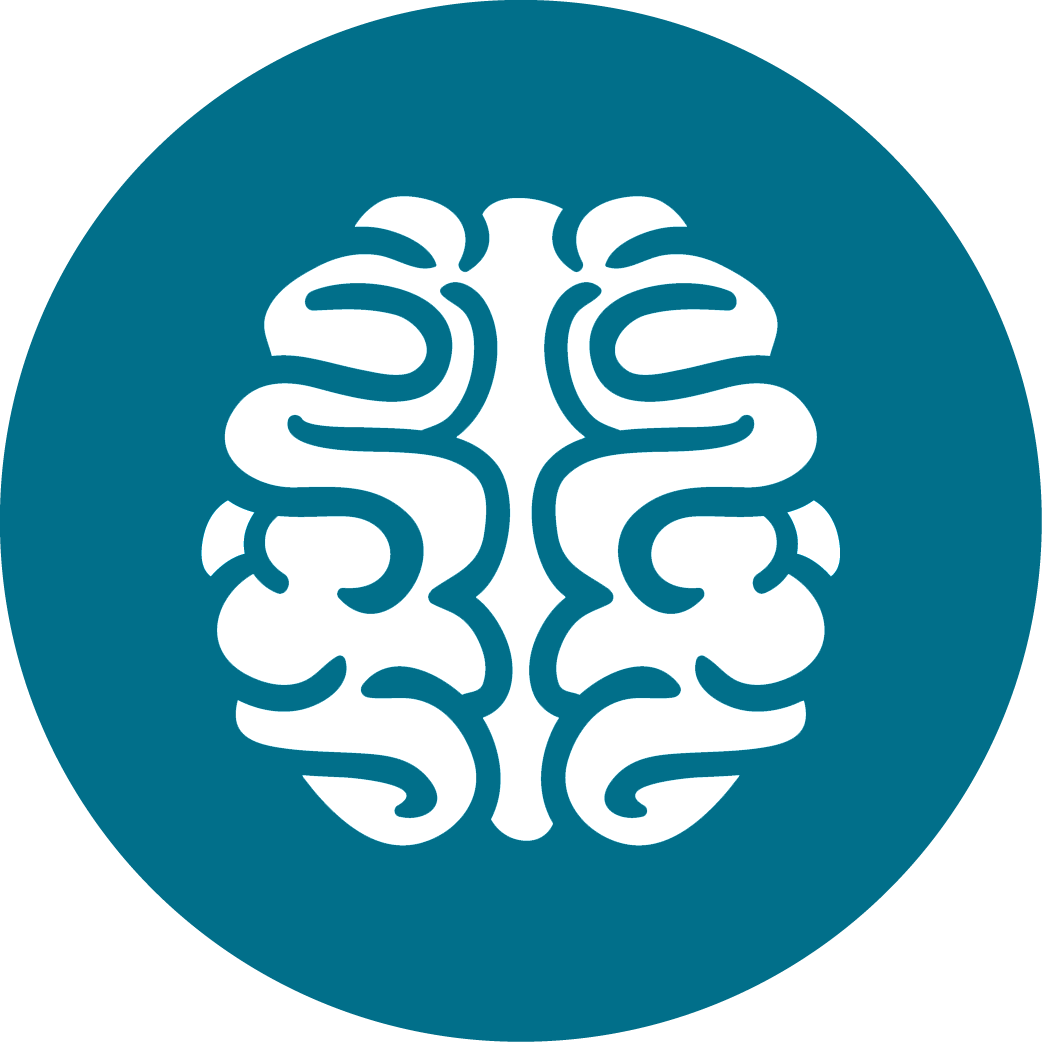
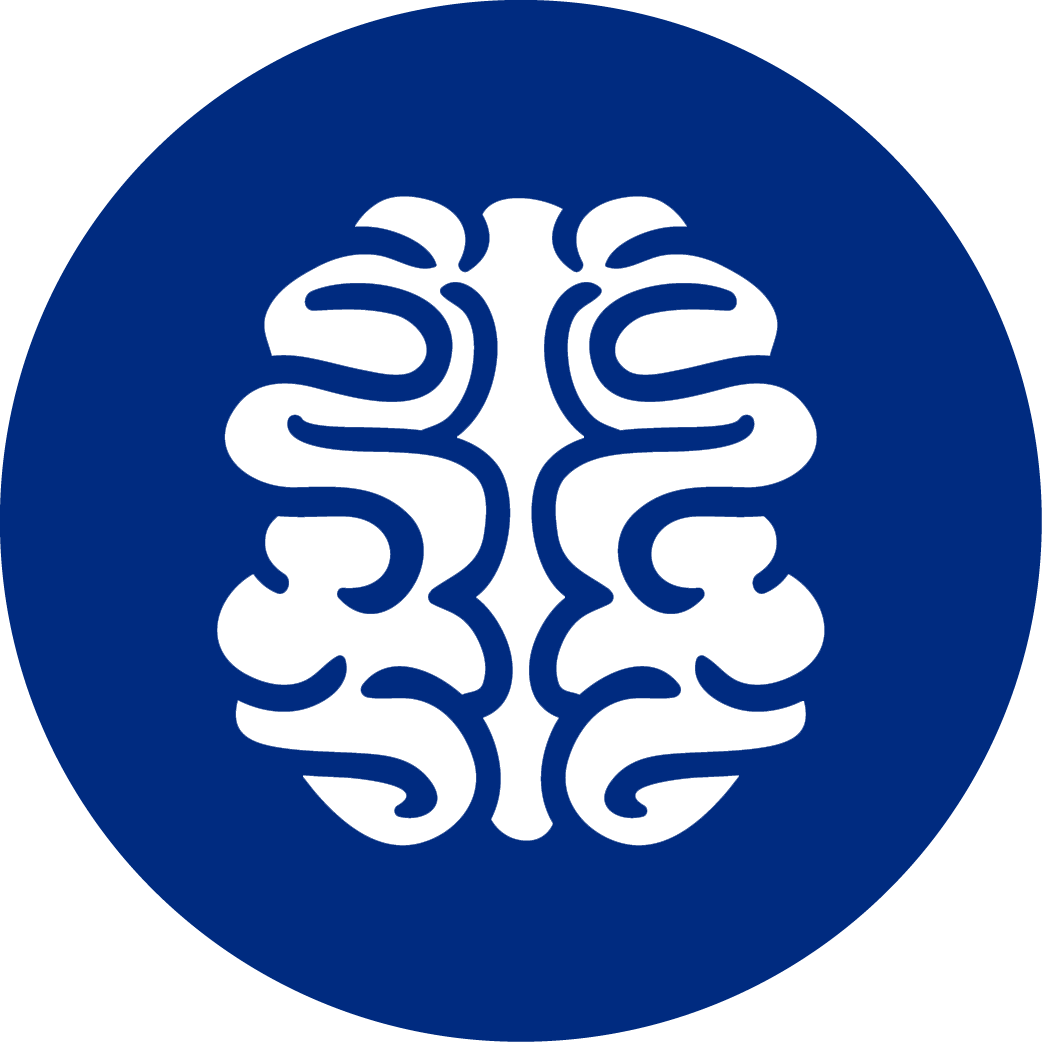
blue services

diff --git a/index.html b/index.html
@@ -97,18 +97,18 @@
             <h2>Services</h2>
             <div class="row mt-3">
                 <div class="col-md-4">
-                    <img class="service-img mt-3" src="img/services/vehicle-yellow.png">
+                    <img class="service-img mt-3" src="img/services/vehicle-blue.png">
                     <h4>Vehicle</h4>
                     <p class="mt-3">We provide you with a new, reliable vehicle that will give your riders the optimal experience and help you earn even better ratings.</p>
                 </div>
                 <div class="col-md-4">
-                    <img class="service-img py-2 mt-3" src="img/services/support-yellow.png">
+                    <img class="service-img py-2 mt-3" src="img/services/support-blue.png">
                     <h4>Support</h4>
                     <p class="mt-3">We are here to work with you. Good or bad credit, we can provide you with a rental solution and the tools you need to be a successful rideshare driver.
                     </p>
                 </div>
                 <div class="col-md-4">
-                    <img class="service-img py-2 mt-3" src="img/services/coaching-yellow.png">
+                    <img class="service-img py-2 mt-3" src="img/services/coaching-blue.png">
                     <h4>Coaching</h4>
                     <p class="mt-3">There are things that every driver, new and old should know to maximize their earnings so we will provide you with a plan to put into action.
                     </p>

diff --git a/css/main.css b/css/main.css
@@ -163,7 +163,7 @@ button {
 }
 
 .services h4 {
-    color: #fec301;
+    color: #003399;
 }
 
 
